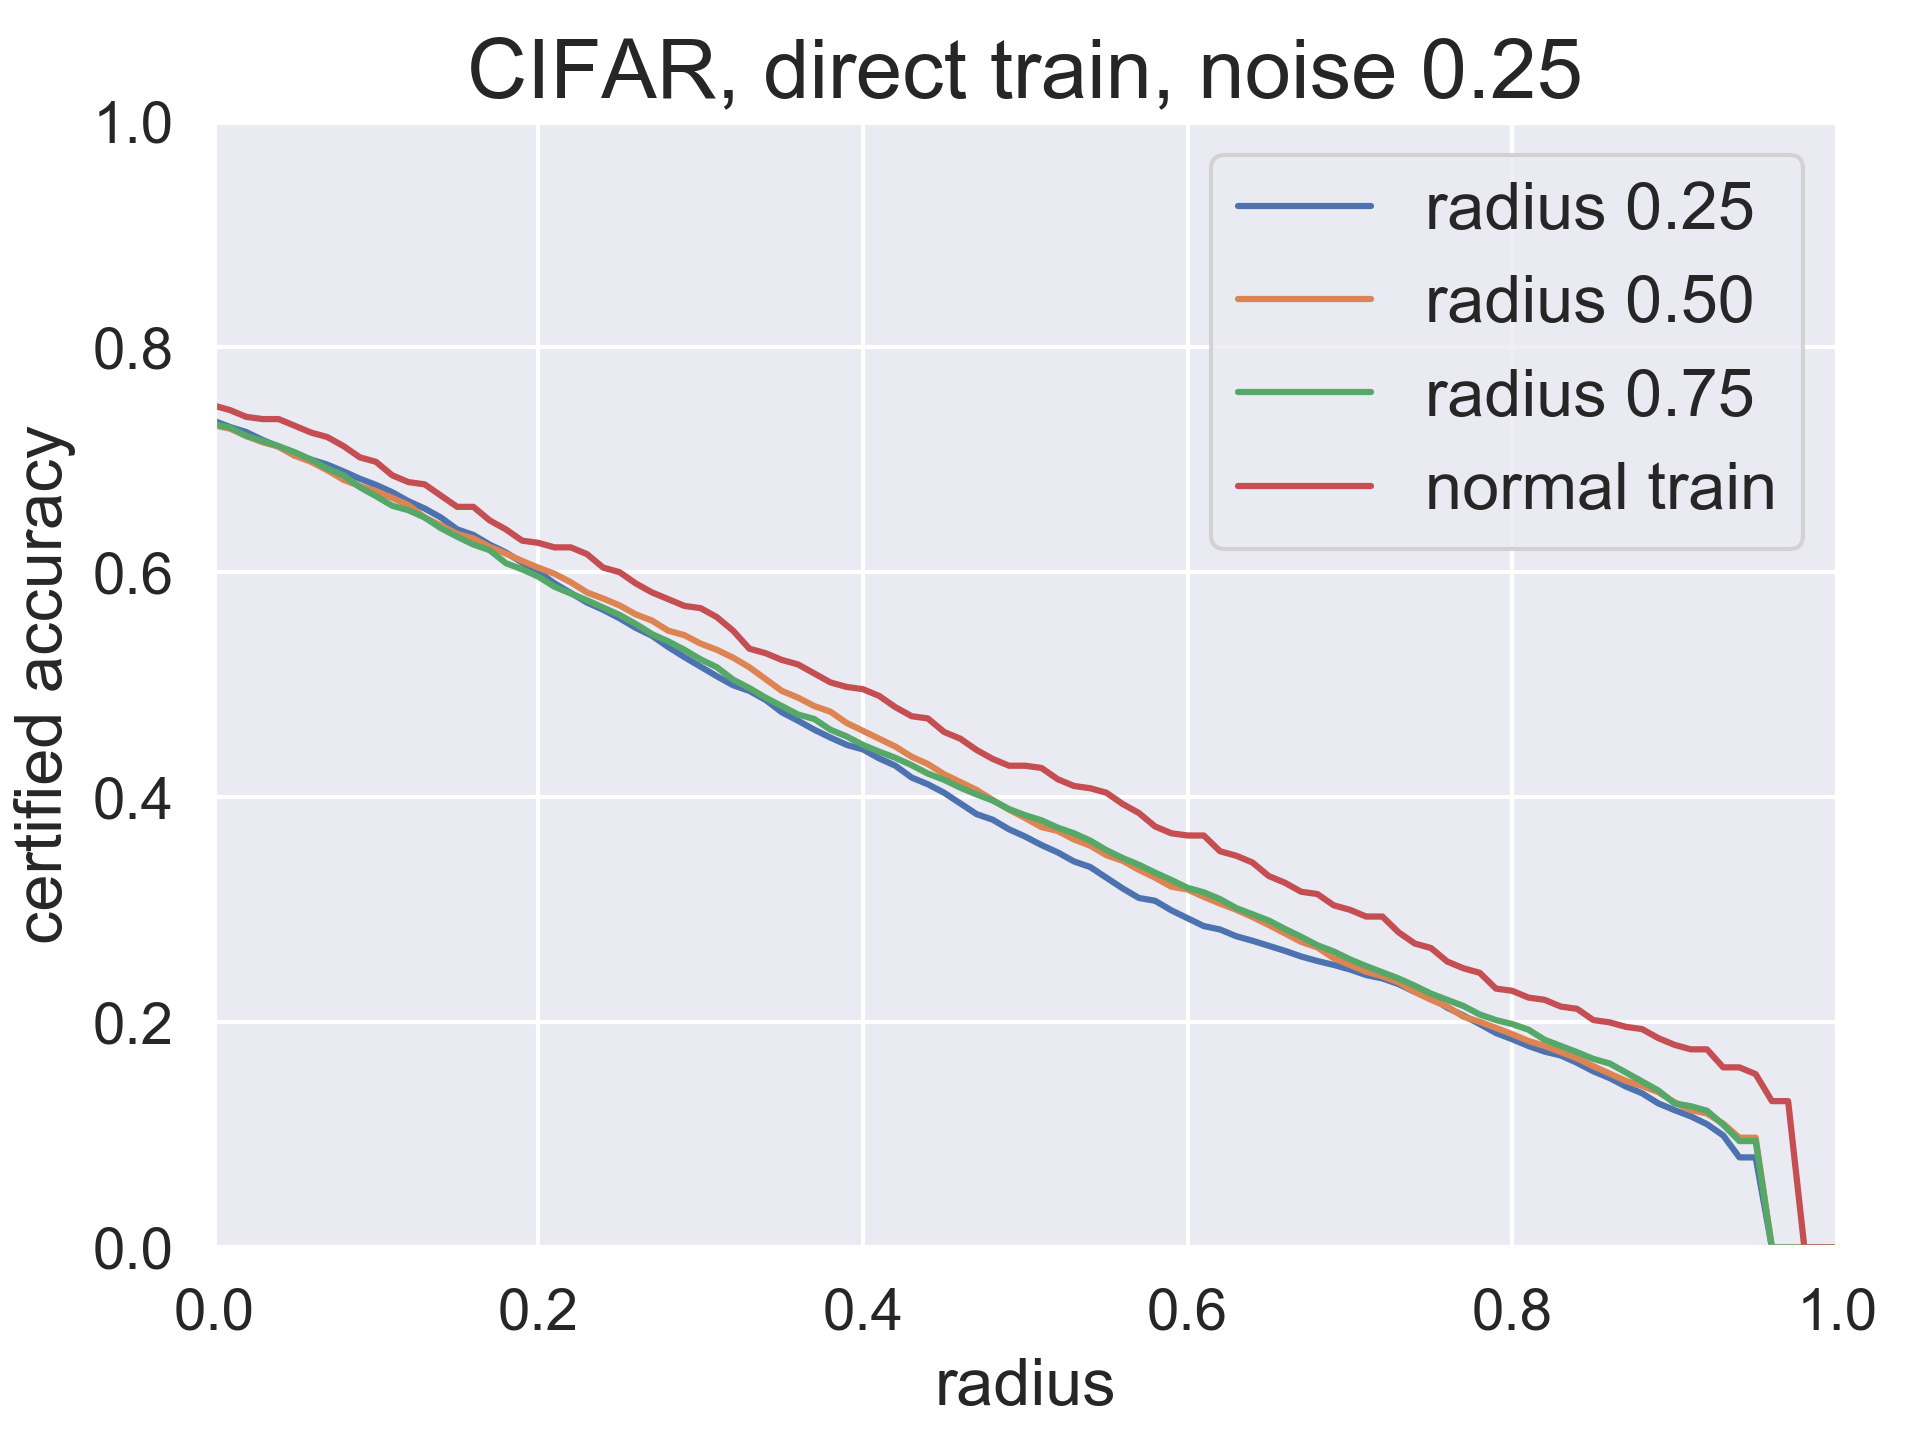
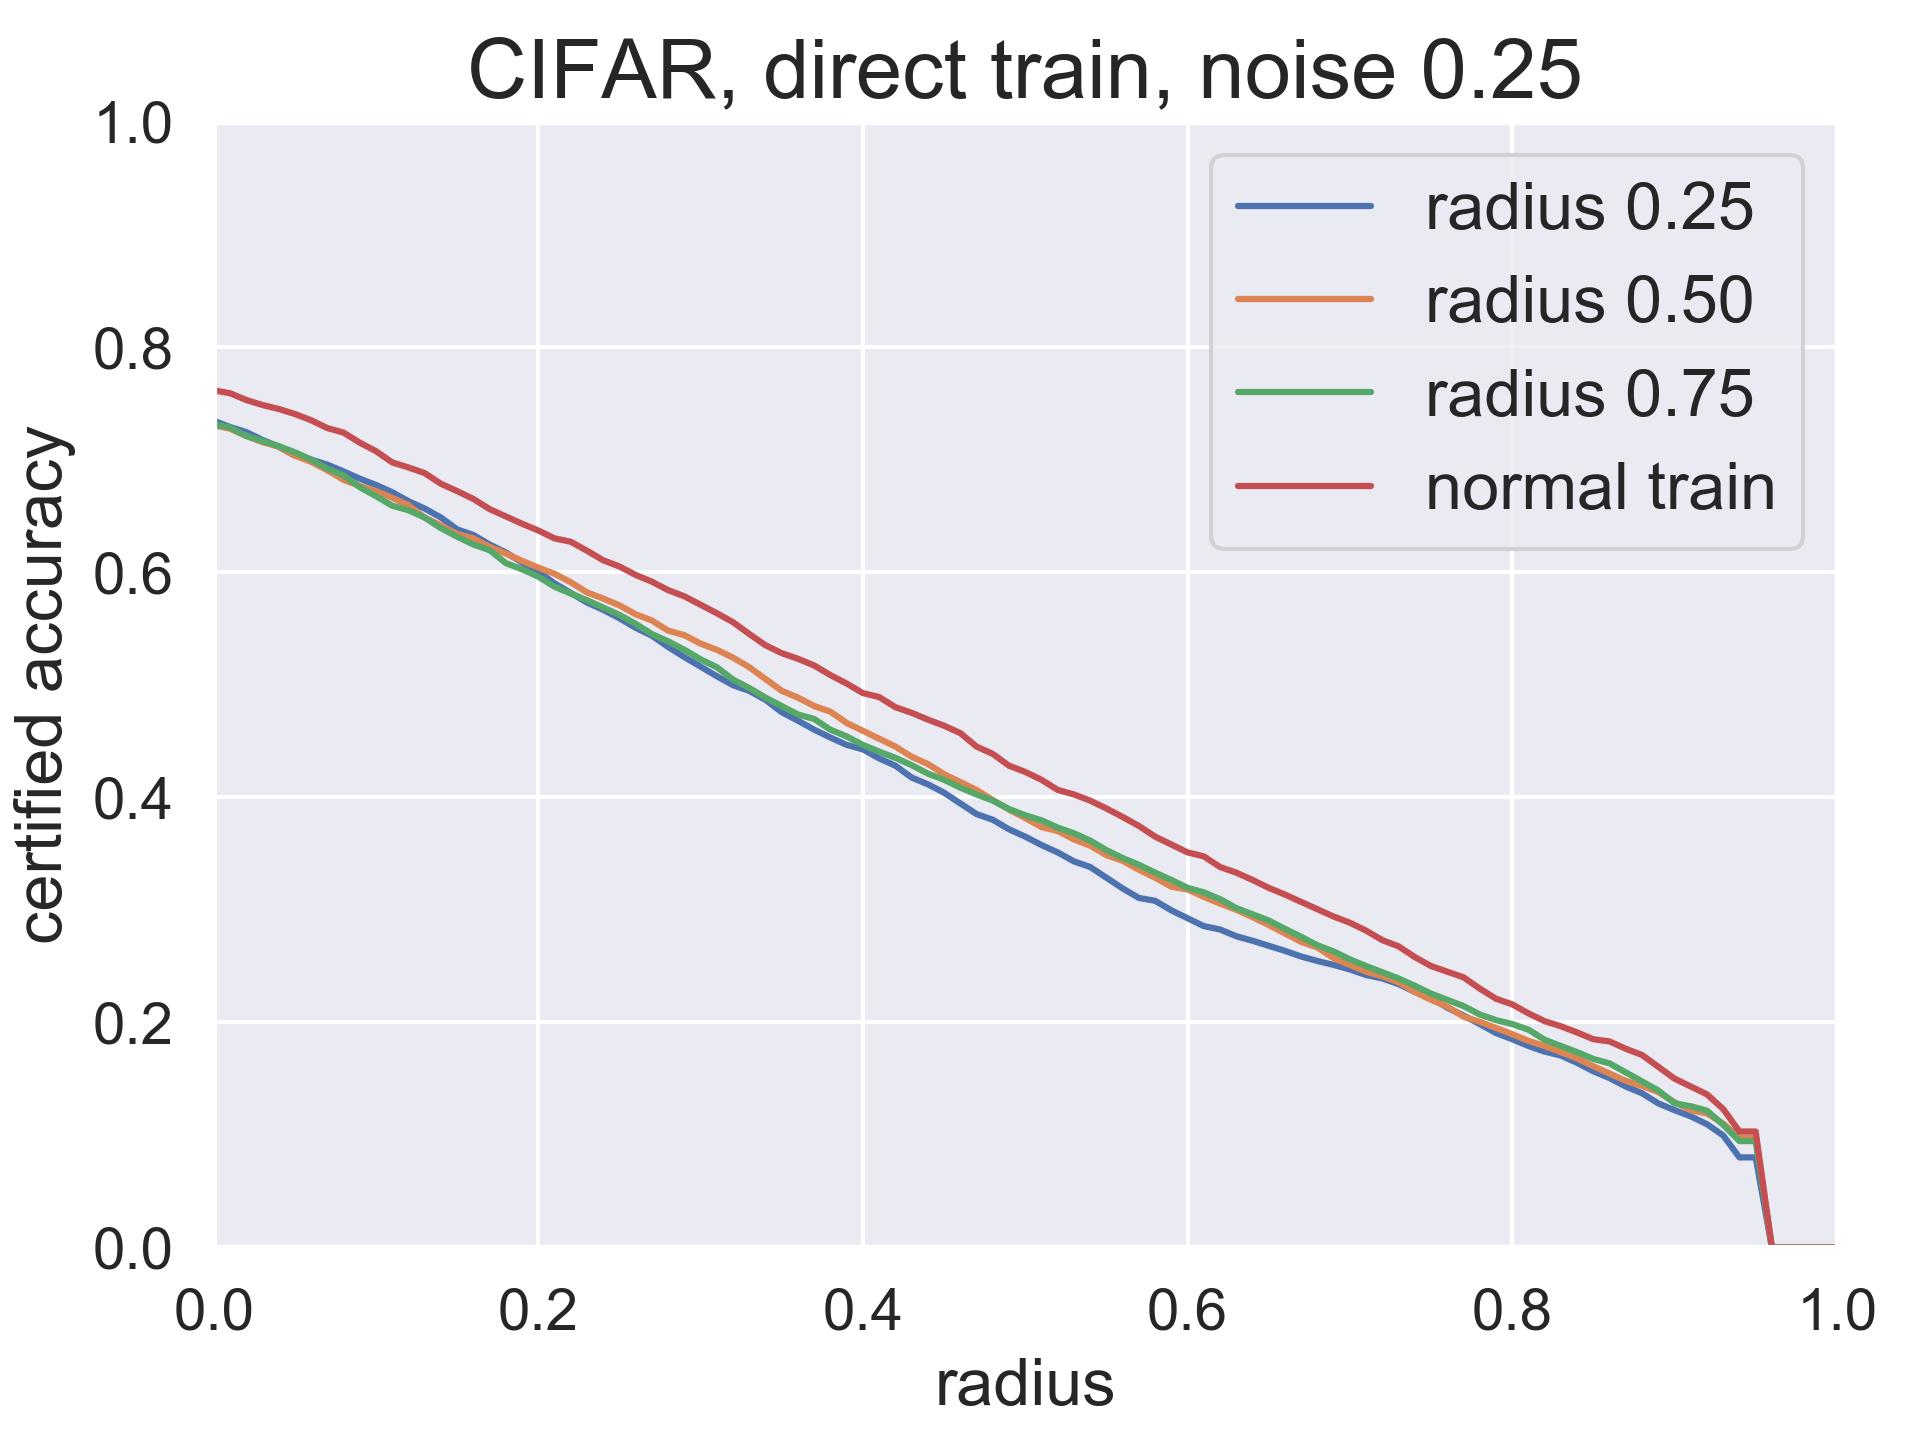
clean up

diff --git a/code/debug.py b/code/debug.py
@@ -36,7 +36,7 @@ def compute_outer_loss(outputs: torch.tensor, target: int, p: float):
     return soft_margin_loss(p - ce, torch.ones_like(ce, dtype=torch.float32).cuda(), reduction='none') / math.log(2.0)
 
 
-def compute_inner_loss(outputs: torch.tensor, target: int, p: float):
+def compute_inner_loss(outputs: torch.tensor, target: int):
     batch_size = outputs.shape[0]
     ce = cross_entropy(outputs, torch.ones(batch_size, dtype=torch.long).cuda() * target, reduction='none') / math.log(2.0)
     return ce
@@ -71,7 +71,7 @@ def sample_noise(base_classifier, sigma, x: torch.tensor, y: int, num: int, batc
             outputs = base_classifier(batch + noise)
             predictions = outputs.argmax(1)
 
-            inner = compute_inner_loss(outputs, y, p)
+            inner = compute_inner_loss(outputs, y)
             outer = compute_outer_loss(outputs, y, p)
 
             outer_losses.extend(outer.cpu().numpy())
@@ -113,20 +113,18 @@ if __name__ == "__main__":
         p = 1.0 - norm.cdf(args.radius / args.sigma)
 
         x = x.cuda()
-        counts, inner_loss, outer_loss = sample_noise(base_classifier, args.sigma, x, label, args.N, args.batch, p)
+        counts, inner_loss, bound3 = sample_noise(base_classifier, args.sigma, x, label, args.N, args.batch, p)
 
         prob = (args.N - counts[label]) / args.N
         true_loss = int(prob > p)
-        inner_loss_mean = inner_loss.mean()
 
-        bound1 = int(inner_loss_mean > p)
-        bound2 = soft_margin_loss(torch.tensor(p - inner_loss_mean), torch.tensor(1.)).item() / math.log(2.0)
-        bound3 = outer_loss.mean()
+        bound1 = int(inner_loss > p)
+        bound2 = soft_margin_loss(torch.tensor(p - inner_loss), torch.tensor(1.)).item() / math.log(2.0)
 
         count += 1
         bound3_total += bound3
 
-        print("{:.3f}\t{:.3f}\t{}\t{:.3f}\t{}\t{:.3f}\t{:.3f}\t{:.3f}".format(p, prob, true_loss, inner_loss_mean,
+        print("{:.3f}\t{:.3f}\t{}\t{:.3f}\t{}\t{:.3f}\t{:.3f}\t{:.3f}".format(p, prob, true_loss, inner_loss,
                                                                               bound1, bound2, bound3, bound3_total/count), file=f, flush=True)
 
     if f != sys.stdout:

diff --git a/code/analyze.py b/code/analyze.py
@@ -212,11 +212,11 @@ if __name__ == "__main__":
             Line(ApproximateAccuracy("data/certify/cifar10/resnet110/direct/noise_0.25/r_0.25"), "radius 0.25"),
             Line(ApproximateAccuracy("data/certify/cifar10/resnet110/direct/noise_0.25/r_0.50"), "radius 0.50"),
             Line(ApproximateAccuracy("data/certify/cifar10/resnet110/direct/noise_0.25/r_0.75"), "radius 0.75"),
-            Line(ApproximateAccuracy("data/certify/cifar10/resnet110/noise_0.25/test/sigma_0.25"), "normal train")
+            Line(ApproximateAccuracy("data/certify/cifar10/resnet110/direct/noise_0.25/normal"), "normal train")
         ])
     plot_certified_accuracy(
         "analysis/plots/cifar_direct_train_0.50", "CIFAR, direct train, noise 0.50", 1, [
             Line(ApproximateAccuracy("data/certify/cifar10/resnet110/direct/noise_0.50/r_0.50"), "radius 0.50"),
             Line(ApproximateAccuracy("data/certify/cifar10/resnet110/direct/noise_0.50/r_1.00"), "radius 1.00"),
-            Line(ApproximateAccuracy("data/certify/cifar10/resnet110/noise_0.50/test/sigma_0.50"), "normal train")
+            Line(ApproximateAccuracy("data/certify/cifar10/resnet110/direct/noise_0.50/normal"), "normal train")
         ])
